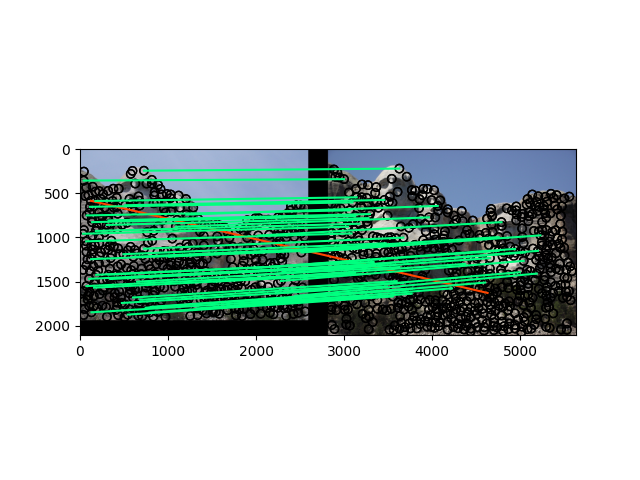
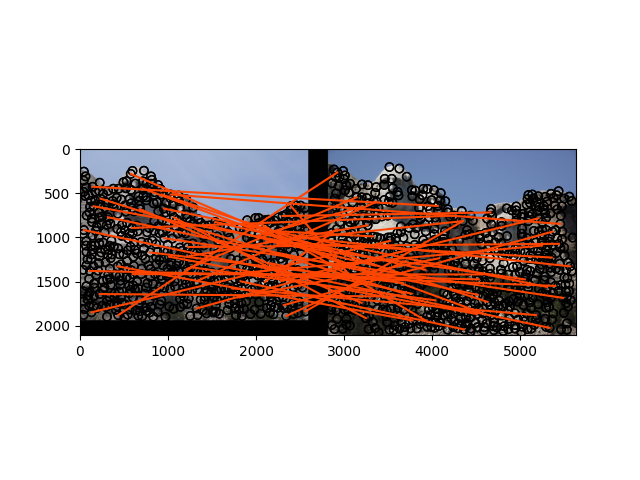
many more points

Changed region(s): [[0.125, 0.3438, 0.9062, 0.6875], [0.875, 0.625, 0.9062, 0.6562], [0.875, 0.4062, 0.9062, 0.4375]]

diff --git a/HW2/code/student.py b/HW2/code/student.py
@@ -5,6 +5,7 @@ from skimage.measure import regionprops
 import cv2
 import scipy as sp
 from scipy.stats import multivariate_normal 
+from sklearn.decomposition import PCA
 
 """
 Next steps:
@@ -113,11 +114,13 @@ def get_interest_points(image, feature_width):
     # STEP 4: Peak local max to eliminate clusters. (Try different parameters.)
     threshold = np.percentile(C, 95)
     min_distance = feature_width
-    coordinates = feature.peak_local_max(C, min_distance=min_distance, threshold_rel=0.01, exclude_border=feature_width)
+    coordinates = feature.peak_local_max(C, min_distance=min_distance, threshold_rel=0.001, exclude_border=feature_width)
     # coordinates = feature.peak_local_max(C_truncated, min_distance=min_distance, threshold_abs=threshold, exclude_border=feature_width)
     # coordinates = feature.peak_local_max(C_truncated, min_distance=min_distance, threshold_abs=threshold)
     xs = coordinates[:, 1] 
     ys = coordinates[:, 0]
+
+    print(f"Number of interest points: {len(xs)}")
     
     # BONUS: There are some ways to improve:
     # 1. Making interest point detection multi-scaled.
@@ -345,6 +348,13 @@ def get_features(image, x, y, feature_width):
 
     # This is a placeholder - replace this with your features!
     # features = np.zeros((len(x),128))
+
+    # if usePCA: # (this did not work well at all)
+        # pca = PCA(n_components=128)
+        # features = pca.fit_transform(features)
+
+        # print(f"features shape after PCA: {features.shape}")
+
     
     return features
 
@@ -387,6 +397,7 @@ def match_features(im1_features, im2_features):
     # STEP 1: Calculate the distances between each pairs of features between im1_features and im2_features.
     #         HINT: check match_features.pdf
     # convert im1_features and im2_features to numpy arrays
+
     f1 = np.array(im1_features)
     f2 = np.array(im2_features)
     f1_squared = np.sum(np.square(f1), axis=1).reshape(-1, 1)
